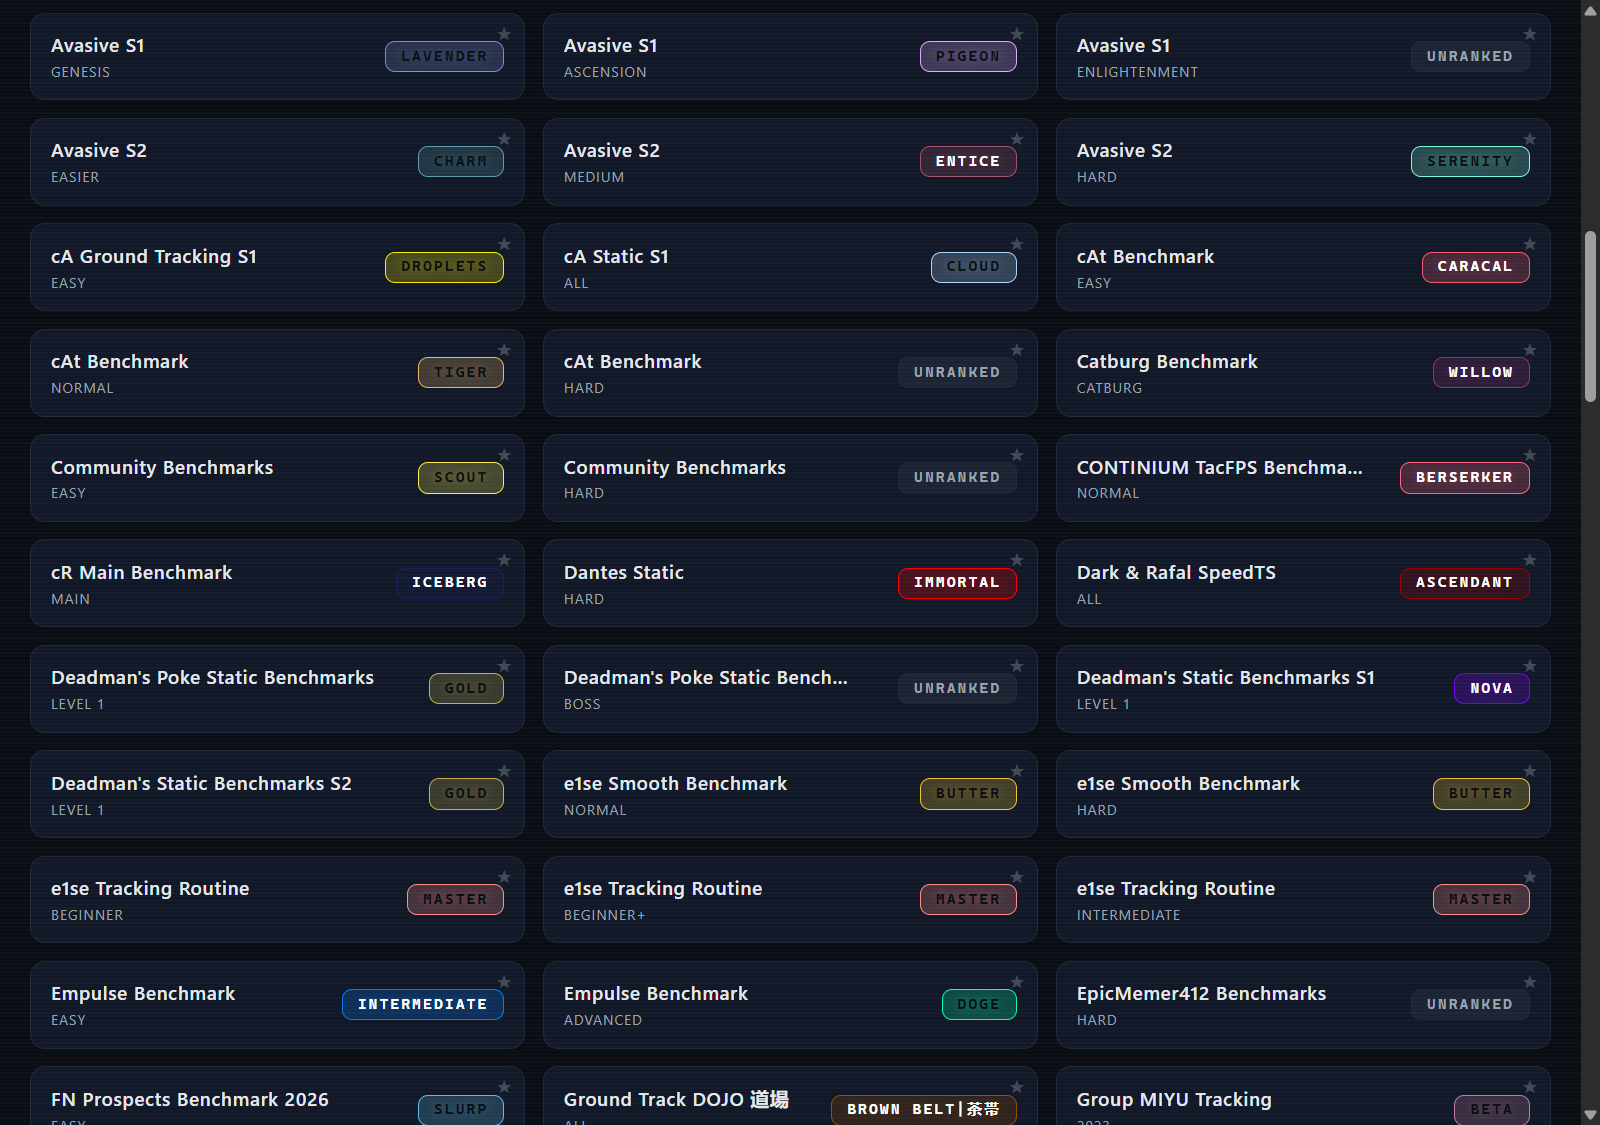
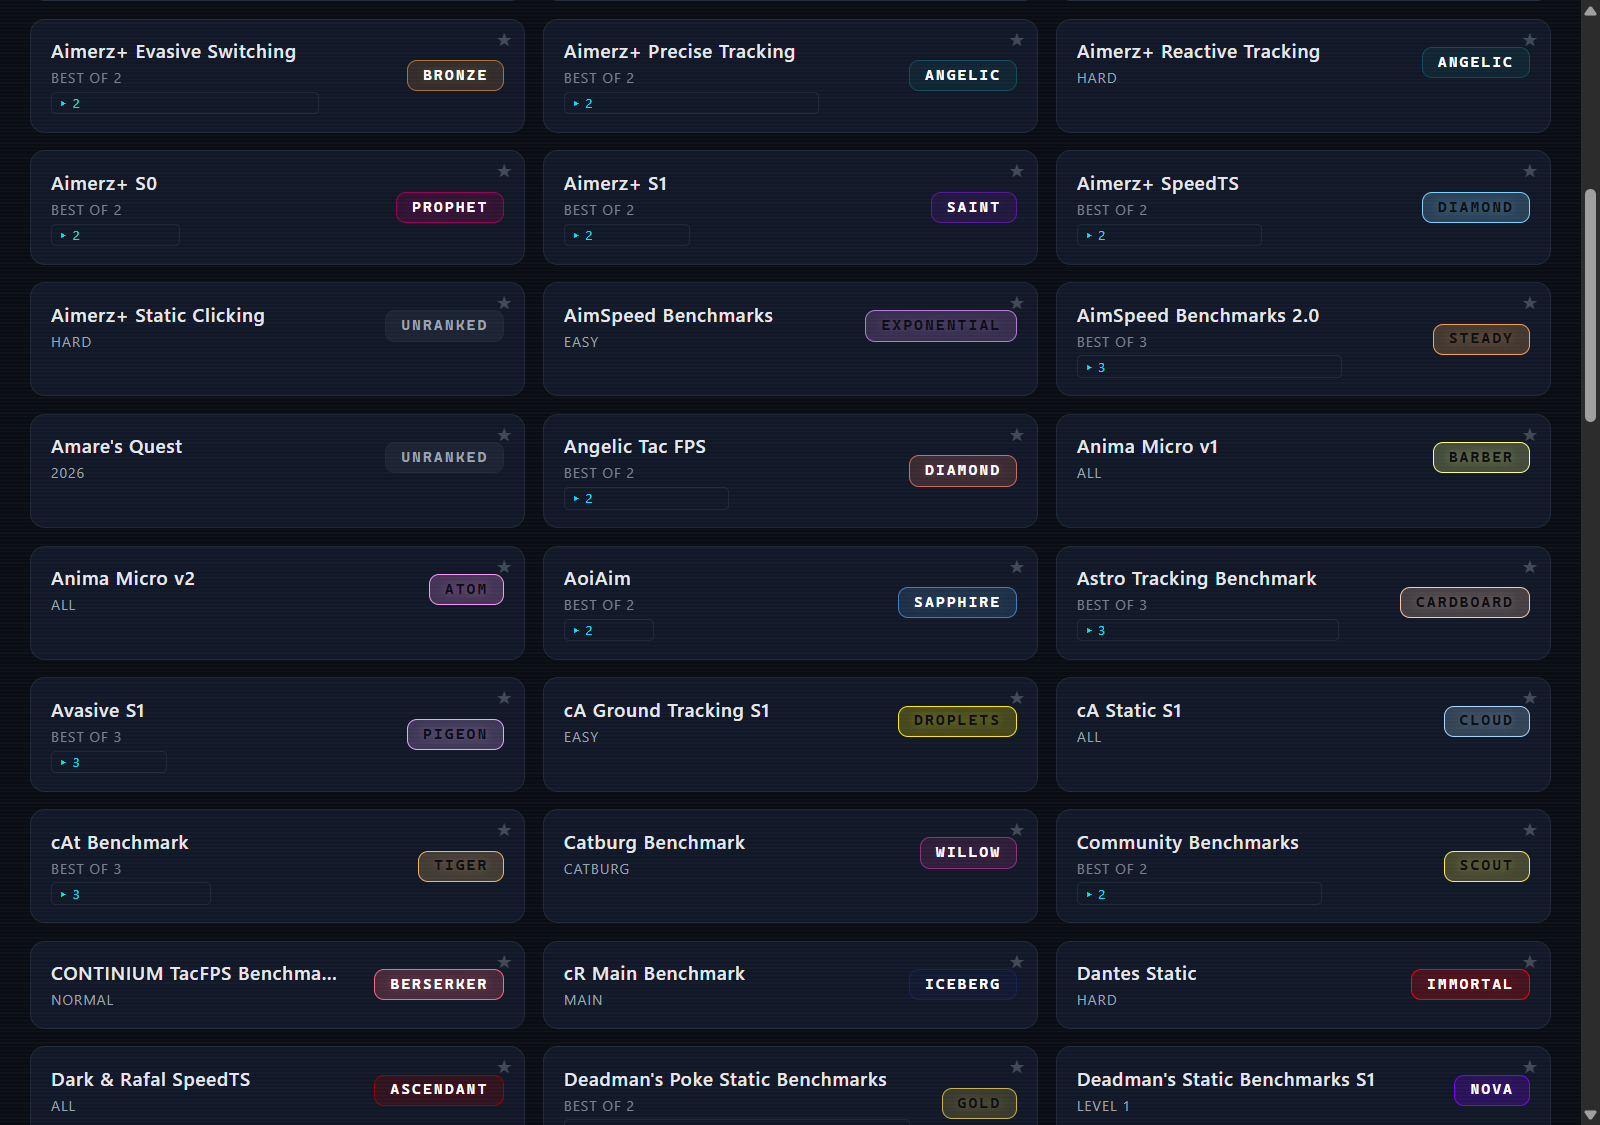
v0.2.0: family cards, weekly report + XP, consistency chips; fresh screenshots

diff --git a/index.html b/index.html
@@ -16,7 +16,7 @@
 <meta name="twitter:description" content="Track every KovaaK's benchmark, watch ranks climb, get exact per-scenario targets for the next tier. Local-first — no login.">
 <meta name="twitter:image" content="https://digitals06.github.io/kairos-site/assets/app-overview.png">
 <script type="application/ld+json">
-{"@context":"https://schema.org","@type":"SoftwareApplication","name":"Kairos","applicationCategory":"GameApplication","operatingSystem":"Windows 10/11","softwareVersion":"0.1.8","license":"https://opensource.org/licenses/MIT","author":{"@type":"Person","name":"Digitals06"},"downloadUrl":"https://github.com/Digitals06/kairos/releases","offers":{"@type":"Offer","price":"0"},"description":"Desktop companion for KovaaK's FPS Aim Trainer: benchmark tracking, locally-computed ranks, per-scenario targets for the next tier."}
+{"@context":"https://schema.org","@type":"SoftwareApplication","name":"Kairos","applicationCategory":"GameApplication","operatingSystem":"Windows 10/11","softwareVersion":"0.2.0","license":"https://opensource.org/licenses/MIT","author":{"@type":"Person","name":"Digitals06"},"downloadUrl":"https://github.com/Digitals06/kairos/releases","offers":{"@type":"Offer","price":"0"},"description":"Desktop companion for KovaaK's FPS Aim Trainer: benchmark tracking, locally-computed ranks, per-scenario targets for the next tier."}
 </script>
 <link rel="preconnect" href="https://fonts.googleapis.com">
 <link rel="preconnect" href="https://fonts.gstatic.com" crossorigin>
@@ -127,6 +127,7 @@ p.lead small{display:block; font-size:14px; font-weight:400; color:var(--muted);
 
 /* screenshots */
 .shots{display:grid; grid-template-columns:1fr 1fr; gap:16px}
+.shots figure.wide{grid-column:1 / -1}
 @media(max-width:760px){.shots{grid-template-columns:1fr}}
 figure.shot{margin:0; background:var(--panel); border:1px solid var(--border); border-radius:var(--radius); overflow:hidden}
 figure.shot img{display:block; width:100%; height:auto; cursor:zoom-in}
@@ -253,15 +254,15 @@ footer .sp{margin-left:auto; font-family:var(--mono); font-size:12px}
   <header class="hero">
     <span class="kicker">KOVAAK'S FPS AIM TRAINER · DESKTOP COMPANION</span>
     <h1 class="mega">KAIROS</h1>
-    <p class="sub"><strong>Track every benchmark. Watch ranks climb.</strong><br>Per-scenario improvement over time — in a neon-soaked native app. No login, no accounts. Your data stays in a local file on your PC.</p>
+    <p class="sub"><strong>Track every benchmark. Watch ranks climb.</strong><br>Weekly progress, XP levels, and exact per-scenario targets — in a neon-soaked native app. No login, no accounts. Your data stays in a local file on your PC.</p>
     <div class="cta-row">
       <a class="btn btn-accent" href="https://github.com/Digitals06/kairos/releases" target="_blank" rel="noopener">⬇ Download kairos.exe</a>
       <a class="btn" href="https://github.com/Digitals06/kairos" target="_blank" rel="noopener">View source on GitHub</a>
     </div>
-    <div class="badges"><span id="rel-ver" title="Latest GitHub release">v0.1.8</span><span id="rel-dl" title="kairos.exe downloads">⬇ 1</span><span>Rust</span><span>Tauri v2</span><span>Svelte 5</span><span>Chart.js</span><span>SQLite · local-first</span><span>MIT</span></div>
+    <div class="badges"><span id="rel-ver" title="Latest GitHub release">v0.2.0</span><span id="rel-dl" title="kairos.exe downloads">⬇ 1</span><span>Rust</span><span>Tauri v2</span><span>Svelte 5</span><span>Chart.js</span><span>SQLite · local-first</span><span>MIT</span></div>
     <figure class="hero-shot rv" style="margin-left:0;margin-right:0">
       <picture><source srcset="assets/app-overview.webp" type="image/webp"><img src="assets/app-overview.png" alt="Kairos benchmark overview grid with rank chips"></picture>
-      <figcaption>Live capture — the benchmark grid with type filter tabs, rank chips, favorites, and sync status.<span class="shot-ver">captured from v0.1.7 · Sep 2026</span></figcaption>
+      <figcaption>Live capture — the weekly strip up top, family cards with rank badges, and type filter tabs.<span class="shot-ver">captured from v0.2.0 · Sep 2026</span></figcaption>
     </figure>
   </header>
 
@@ -278,25 +279,30 @@ footer .sp{margin-left:auto; font-family:var(--mono); font-size:12px}
       <div class="card rv"><div class="ico">🎯</div><h3>evxl-accurate ranks, computed locally</h3><p>Reverse-engineered from evxl.app: Voltaic energy, harmonic / top-N / count-based methods and more — every family computes from your scores. No server fallback remains.</p></div>
       <div class="card rv"><div class="ico">🔔</div><h3>Rank-change toasts</h3><p>Every sync diffs your two newest snapshots per benchmark. Rank moves? A <code>RANK UP</code> toast with old → new tier, or one summary when several shift.</p></div>
       <div class="card rv"><div class="ico">⚡</div><h3>Live local plays</h3><p>A background watcher reads KovaaK's <code>Stats</code> folder while the app is open — new sessions land in your charts on their own. No refresh click.</p></div>
+      <div class="card rv"><div class="ico">📅</div><h3>Weekly report + XP levels</h3><p>Plays, days trained, current streak, and an XP level with its progress bar — plus this week's benchmark rank changes, right at the top of the app.</p></div>
       <div class="card rv"><div class="ico">🗂</div><h3>Full benchmark coverage</h3><p>Every benchmark tracked on <a href="https://evxl.app" target="_blank" rel="noopener">evxl.app</a> — Voltaic, Revosect, PureG, Aimerz+ and the rest — with official rank names and colors.</p></div>
+      <div class="card rv"><div class="ico">🧩</div><h3>One card per family</h3><p>The overview groups benchmarks by family: best rank badge, difficulty count, and unroll to see every difficulty with its tier-ladder rungs lit up to your rank.</p></div>
       <div class="card rv"><div class="ico">🔄</div><h3>One-click sync, polite by default</h3><p>Quick pass for your mains, Deep Scan for everything. Smart sync skips benchmarks whose CSVs haven't changed; throttles get patient retries.</p></div>
-      <div class="card rv"><div class="ico">📈</div><h3>Per-scenario detail</h3><p>Score-history chart (local plays + snapshots, deduplicated), 7-day average, running high, avg/high scores, 30-day improvement %. Stale non-PB syncs never pollute the charts.</p></div>
+      <div class="card rv"><div class="ico">📈</div><h3>Per-scenario detail</h3><p>Score-history chart with PB progression lines (local plays + snapshots, deduplicated), 7-day average, running high, avg/high scores, 30-day improvement %.</p></div>
+      <div class="card rv"><div class="ico">🧪</div><h3>Consistency &amp; plateau detection</h3><p>Chips on every scenario: progressing or plateaued, PB count, days since your last PB, and CV — the spread of your recent plays. Swap a stalled grind for one that's still climbing.</p></div>
       <div class="card rv"><div class="ico">🧭</div><h3>What to grind next</h3><p>Each benchmark page names the cheapest per-scenario scores for the next tier — probed against the local engine, so exact for every method family. Targets cap at each scenario's ladder top, so they're always achievable; when no single scenario can carry you, you get a numbered rung-by-rung plan instead.</p></div>
       <div class="card rv"><div class="ico">📌</div><h3>Search + favorites</h3><p>Filter the grid by name, pin benchmarks to the top. Pins survive restarts. Registry updater keeps new seasons coming without a rebuild.</p></div>
       <div class="card rv"><div class="ico">🏷</div><h3>Benchmark-type filter</h3><p>12 tabs mirroring evxl's own grouping — Tracking, Static, Clicking, Micro, Dynamic, Evasive and more. Multi-select, combined with the name search; only pure benchmarks match a style tab, everything unspecialized sits under Mixed.</p></div>
       <div class="card rv"><div class="ico">🔒</div><h3>Private by design</h3><p>No accounts, no telemetry — only public APIs. Live API tests skip unless you opt in. Auto-sync on launch with a “last synced X ago” indicator.</p></div>
-      <div class="card rv"><div class="ico">💾</div><h3>One-click backup</h3><p>The settings menu exports your entire history as a single JSON file in Documents. Your grind, portable.</p></div>
+      <div class="card rv"><div class="ico">💾</div><h3>One-click backup</h3><p>The settings menu exports your entire history — a full JSON backup plus a CSV series of your scores — straight to your Documents folder.</p></div>
     </div>
   </section>
 
   <section id="screenshots">
     <h2 class="sec">// Screenshots</h2>
-    <p class="lead">Straight from the app.<small>Click any image to zoom. All captured live from v0.1.7.</small></p>
+    <p class="lead">Straight from the app.<small>Click any image to zoom. All captured live from v0.2.0.</small></p>
     <div class="shots">
-      <figure class="shot rv"><picture><source srcset="assets/app-grid-scrolled.webp" type="image/webp"><img src="assets/app-grid-scrolled.png" alt="Kairos benchmark grid showing many benchmark families" loading="lazy"></picture><figcaption><strong>Benchmark grid</strong>Dozens of families — Astro, Avasive S1, Catburg, Dantes, Dark &amp; Rafal… with official rank colors.<span class="shot-ver">captured from v0.1.7 · Sep 2026</span></figcaption></figure>
-      <figure class="shot rv"><picture><source srcset="assets/app-grind.webp" type="image/webp"><img src="assets/app-grind.png" alt="Kairos what-to-grind-next panel with per-scenario targets" loading="lazy"></picture><figcaption><strong>What to grind next</strong>Exact per-scenario targets for the next tier, capped at each ladder top — or a combined step-by-step plan.<span class="shot-ver">captured from v0.1.7 · Sep 2026</span></figcaption></figure>
-      <figure class="shot rv"><picture><source srcset="assets/app-detail-top.webp" type="image/webp"><img src="assets/app-detail-top.png" alt="Kairos Tracer Benchmark Hard detail on Smoothbot scenario" loading="lazy"></picture><figcaption><strong>Scenario deep-dive</strong>Tracer Benchmark Hard on Smoothbot Pauer Close Smooth (4 entries): avg/high, 7-day average, 30-day improvement.<span class="shot-ver">captured from v0.1.7 · Sep 2026</span></figcaption></figure>
-      <figure class="shot rv"><picture><source srcset="assets/app-detail-chart.webp" type="image/webp"><img src="assets/app-detail-chart.png" alt="Kairos 7-entry score history chart with local plays" loading="lazy"></picture><figcaption><strong>Score history</strong>Avasive S2 Easier, AngelClick Revolving — 7 runs on one chart. Magenta dots are local CSV plays, the rest sync snapshots, deduplicated.<span class="shot-ver">captured from v0.1.7 · Sep 2026</span></figcaption></figure>
+      <figure class="shot rv"><picture><source srcset="assets/app-grid-scrolled.webp" type="image/webp"><img src="assets/app-grid-scrolled.png" alt="Kairos family benchmark grid" loading="lazy"></picture><figcaption><strong>Benchmark grid</strong>One card per family — Aimerz+, AimSpeed, Amare's Quest, Angelic, Anima Micro… each with its best rank badge.<span class="shot-ver">captured from v0.2.0 · Sep 2026</span></figcaption></figure>
+      <figure class="shot rv"><picture><source srcset="assets/app-family-unroll.webp" type="image/webp"><img src="assets/app-family-unroll.png" alt="Kairos family card expanded showing difficulty rung bars" loading="lazy"></picture><figcaption><strong>Family unroll</strong>Voltaic S5 expanded: every difficulty with its tier-ladder rungs, lit up to your rank.<span class="shot-ver">captured from v0.2.0 · Sep 2026</span></figcaption></figure>
+      <figure class="shot wide rv"><picture><source srcset="assets/app-weekly.webp" type="image/webp"><img src="assets/app-weekly.png" alt="Kairos weekly report strip with plays, streak, XP level and rank changes" loading="lazy"></picture><figcaption><strong>Weekly report + XP</strong>Plays, days trained, streak, and an XP level with progress bar — plus this week's rank changes, up top.<span class="shot-ver">captured from v0.2.0 · Sep 2026</span></figcaption></figure>
+      <figure class="shot wide rv"><picture><source srcset="assets/app-detail-top.webp" type="image/webp"><img src="assets/app-detail-top.png" alt="Kairos Avasive S2 Easier detail header and stats" loading="lazy"></picture><figcaption><strong>Scenario deep-dive</strong>Avasive S2 Easier — rank, avg/high scores, 7-day average, and 30-day improvement %.<span class="shot-ver">captured from v0.2.0 · Sep 2026</span></figcaption></figure>
+      <figure class="shot wide rv"><picture><source srcset="assets/app-detail-chart.webp" type="image/webp"><img src="assets/app-detail-chart.png" alt="Kairos score history chart with PB progression and consistency chips" loading="lazy"></picture><figcaption><strong>Score history + consistency</strong>8 runs on AngelClick Revolving with PB progression, and chips: progressing, 8 PBs, days since PB, CV %.<span class="shot-ver">captured from v0.2.0 · Sep 2026</span></figcaption></figure>
+      <figure class="shot wide rv"><picture><source srcset="assets/app-grind.webp" type="image/webp"><img src="assets/app-grind.png" alt="Kairos what-to-grind-next panel with per-scenario targets and CV" loading="lazy"></picture><figcaption><strong>What to grind next</strong>Tracer Benchmark Hard — the exact scores that flip Diamond → Master, each with its target's CV.<span class="shot-ver">captured from v0.2.0 · Sep 2026</span></figcaption></figure>
     </div>
   </section>
 
@@ -321,6 +327,7 @@ footer .sp{margin-left:auto; font-family:var(--mono); font-size:12px}
           <tr><td>Next-tier targets</td><td class="yes">Exact, per scenario</td><td class="mid">Ranks only</td><td class="mid">Hand-computed</td></tr>
           <tr><td>Rank source</td><td class="yes">Recomputed locally</td><td class="mid">Server rank (often stale)</td><td class="mid">Manual lookup</td></tr>
           <tr><td>Local plays</td><td class="yes">Automatic CSV watcher</td><td class="mid">Not tracked</td><td class="mid">Manual entry</td></tr>
+          <tr><td>Weekly report + XP</td><td class="yes">Streak, levels, rank moves</td><td class="mid">No</td><td class="mid">Manual</td></tr>
           <tr><td>Login needed</td><td class="yes">None</td><td class="yes">None</td><td class="mid">Google account</td></tr>
           <tr><td>Works offline</td><td class="yes">Yes, local DB</td><td class="mid">No</td><td class="yes">Yes</td></tr>
         </tbody>
@@ -358,35 +365,45 @@ cd ..\src-tauri
     <p class="lead">Shipped when done and verified. No dates.<small>Tracked in <a href="https://github.com/Digitals06/kairos/blob/main/ROADMAP.md" target="_blank" rel="noopener">ROADMAP.md</a> — open development, public but small.</small></p>
     <div class="rm-grid">
       <div class="rm now rv">
-        <h3>v0.1.8 <span class="tag">CURRENT</span></h3>
+        <h3>v0.2.0 <span class="tag">CURRENT</span></h3>
         <ul>
-          <li class="done">100% client-side rank coverage — the last API-rank fallback is closed</li>
-          <li class="done">One-click full backup export (JSON, straight to Documents)</li>
-        </ul>
-      </div>
-      <div class="rm shipped rv">
-        <h3>v0.1.6 – v0.1.7 <span class="tag">SHIPPED</span></h3>
-        <ul>
-          <li class="done">12-tab evxl filter + “what to grind next” panel (v0.1.6)</li>
-          <li class="done">Ladder-top capping + combined rung-by-rung plans (v0.1.7)</li>
-          <li class="done">Smart sync, registry updater, auto-sync (v0.1.5)</li>
+          <li class="done">Family overview: one card per benchmark family with tier-ladder rung bars</li>
+          <li class="done">Weekly report — plays, days, PBs, streak + XP level, rank changes</li>
+          <li class="done">Streaks + XP meta-progression; CSV export alongside the JSON backup</li>
+          <li class="done">Deep pages: PB progression + plateau detection per scenario</li>
+          <li class="done">Rank coverage audit — zero API-fallback families</li>
         </ul>
       </div>
       <div class="rm next rv">
-        <h3>v0.2 <span class="tag">NEXT</span></h3>
+        <h3>v0.2.1 <span class="tag">NEXT</span></h3>
         <ul>
-          <li>Benchmark dashboard — rank chips + progress-to-next bars</li>
-          <li>Weekly report — time trained, trends, rank changes</li>
-          <li>Windows installer (NSIS via Tauri bundler)</li>
-          <li>CSV history export (JSON one-click backup already shipped)</li>
-          <li>Streaks / XP meta-progression from consistency and milestones</li>
+          <li>Grind chips on overview cards — runs to next tier, plateaued badges</li>
+          <li>Time-trained estimate in the weekly strip</li>
+        </ul>
+      </div>
+      <div class="rm next rv">
+        <h3>v0.3.0 <span class="tag">NEXT</span></h3>
+        <ul>
+          <li>Tray mode + optional auto-launch</li>
+          <li>Reconcile view — API vs local CSV discrepancy report</li>
+          <li>Grind session coach — next 3 scenarios while you play</li>
+          <li>Discord share card (PNG) · opt-in global leaderboards</li>
+        </ul>
+      </div>
+      <div class="rm shipped rv">
+        <h3>v0.1.5 – v0.1.9 <span class="tag">SHIPPED</span></h3>
+        <ul>
+          <li class="done">Smart sync, registry updater, auto-sync (v0.1.5)</li>
+          <li class="done">12-tab evxl filter + grind-next panel (v0.1.6)</li>
+          <li class="done">Ladder-top capping + combined plans (v0.1.7)</li>
+          <li class="done">Full local rank coverage + JSON backup (v0.1.8)</li>
+          <li class="done">Consistency &amp; plateau detection (v0.1.9)</li>
         </ul>
       </div>
       <div class="rm rv">
         <h3>LATER <span class="tag" style="border-color:var(--border);color:var(--muted)">UNPROMISED</span></h3>
         <ul>
-          <li>Tray mode · auto-launch when KovaaK's starts</li>
-          <li>Reconcile view — API vs local CSV discrepancy report</li>
+          <li>Windows installer (NSIS via Tauri bundler)</li>
         </ul>
       </div>
     </div>
